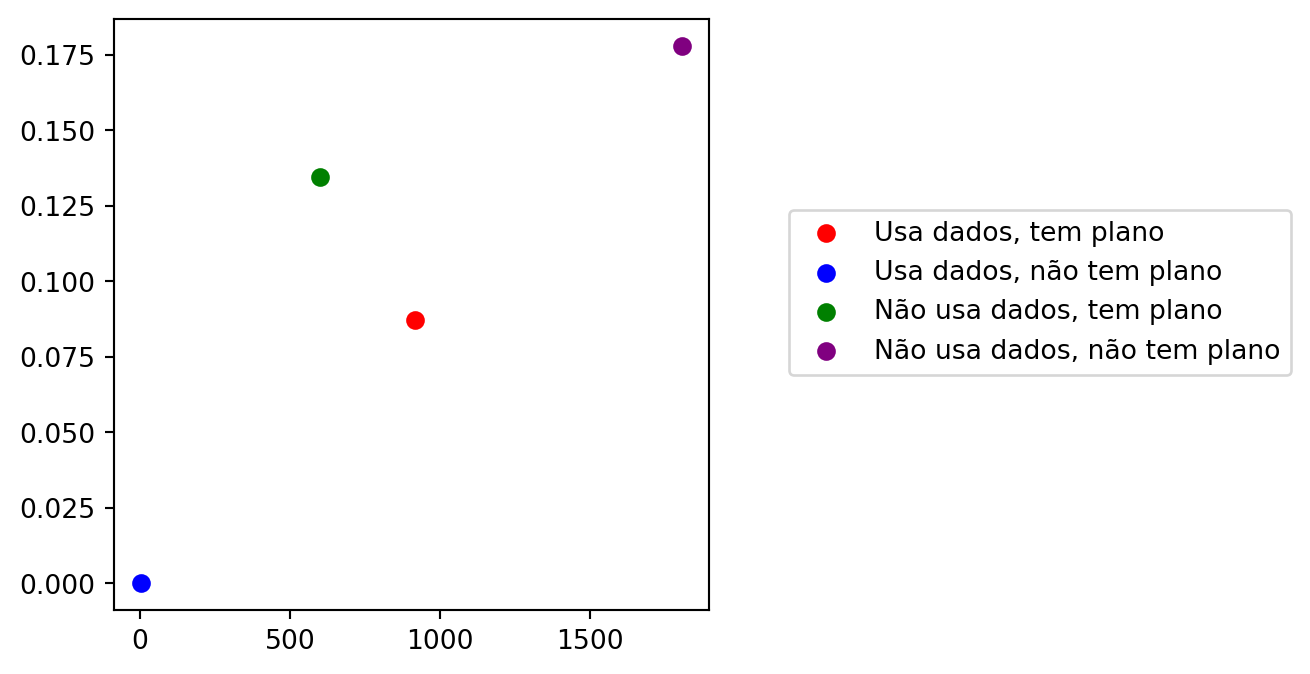
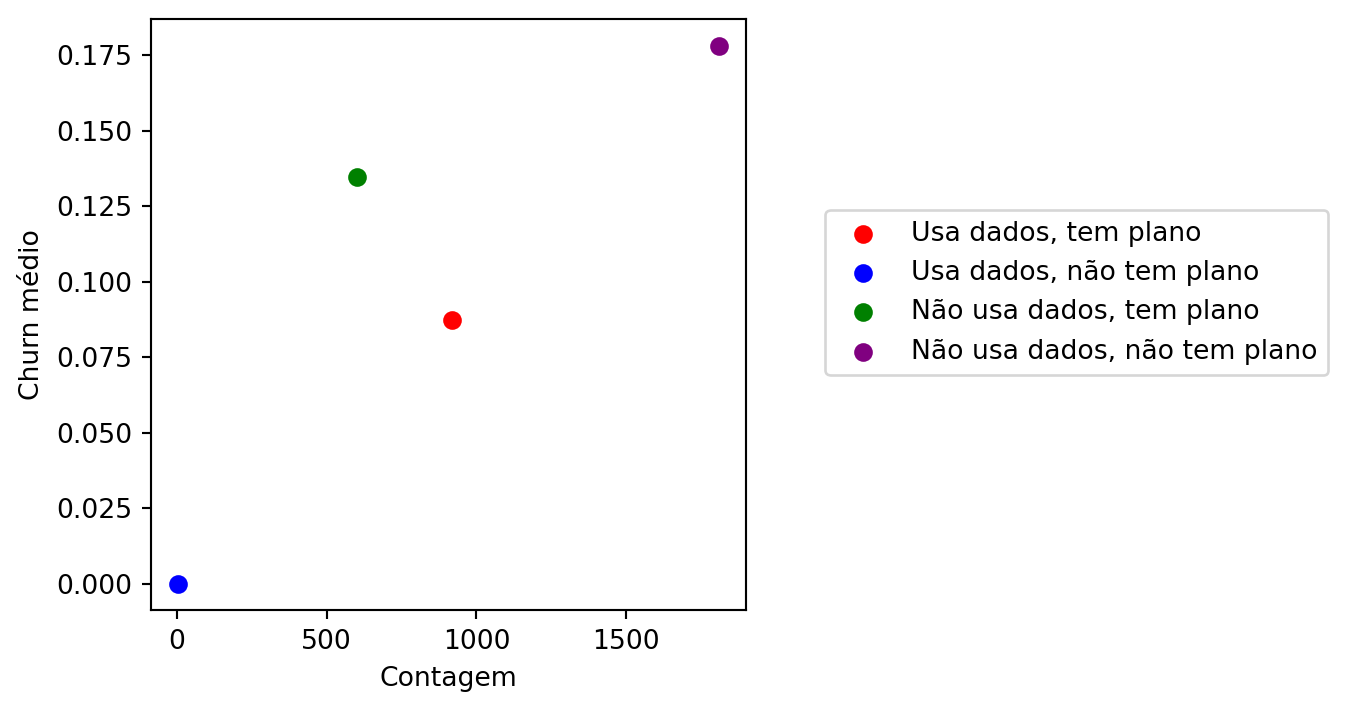
minor changes

diff --git a/presentation.html b/presentation.html
@@ -373,7 +373,7 @@
 <h2>Overview dos dados</h2>
 <p>Como temos apenas variáveis numéricas, usamos o método <code>describe</code> para obter uma visão das variáveis e suas características.</p>
 <div class="cell" data-execution_count="3">
-<div class="cell-output cell-output-display" data-execution_count="3">
+<div class="cell-output cell-output-display" data-execution_count="27">
 <div>
 <style scoped="">
     .dataframe tbody tr th:only-of-type {
@@ -599,7 +599,7 @@ p-value: 0.00</code></pre>
 <h2>Uso de dados com e sem plano</h2>
 <div class="cell" data-execution_count="12">
 <div class="cell-output cell-output-display">
-<p><img data-src="presentation_files/figure-revealjs/cell-13-output-1.png" width="655" height="337"></p>
+<p><img data-src="presentation_files/figure-revealjs/cell-13-output-1.png" width="674" height="356"></p>
 </div>
 </div>
 <div class="cell" data-execution_count="13">
@@ -663,7 +663,7 @@ p-value: 0.00</code></pre>
 <section id="regressão-logística-1" class="slide level2">
 <h2>Regressão Logística</h2>
 <div class="cell" data-execution_count="25">
-<div class="cell-output cell-output-display" data-execution_count="20">
+<div class="cell-output cell-output-display" data-execution_count="44">
 <div>
 <style scoped="">
     .dataframe tbody tr th:only-of-type {
@@ -828,7 +828,7 @@ p-value: 0.00</code></pre>
 <section id="análise-dos-clusters" class="slide level2">
 <h2>Análise dos clusters</h2>
 <div class="cell" data-execution_count="29">
-<div class="cell-output cell-output-display" data-execution_count="24">
+<div class="cell-output cell-output-display" data-execution_count="48">
 <div>
 <style scoped="">
     .dataframe tbody tr th:only-of-type {
